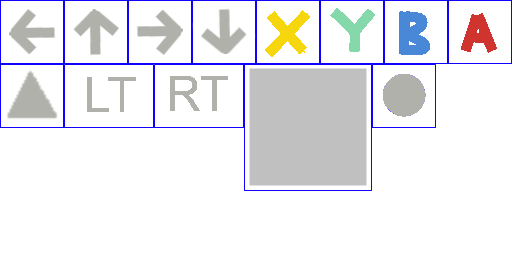
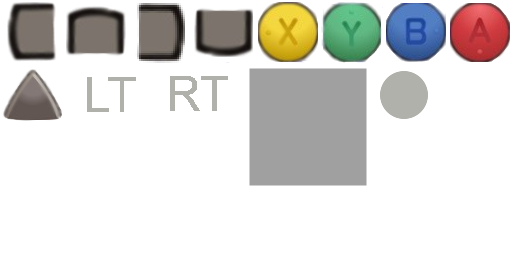
Updated buttons img, reset OSD scale

diff --git a/core/rend/gles/gles.cpp b/core/rend/gles/gles.cpp
@@ -958,6 +958,23 @@ void OSD_DRAW()
 		glBindTexture(GL_TEXTURE_2D,osd_tex);
 		glUseProgram(gl.OSD_SHADER.program);
 
+		//reset rendering scale
+
+		float dc_width=640;
+		float dc_height=480;
+
+		float dc2s_scale_h=screen_height/480.0f;
+		float ds2s_offs_x=(screen_width-dc2s_scale_h*640)/2;
+
+		//-1 -> too much to left
+		ShaderUniforms.scale_coefs[0]=2.0f/(screen_width/dc2s_scale_h);
+		ShaderUniforms.scale_coefs[1]=-2/dc_height;
+		ShaderUniforms.scale_coefs[2]=1-2*ds2s_offs_x/(screen_width);
+		ShaderUniforms.scale_coefs[3]=-1;
+		
+		glUniform4fv( gl.OSD_SHADER.scale, 1, ShaderUniforms.scale_coefs);
+
+
 		glEnable(GL_BLEND);
 		glDisable(GL_DEPTH_TEST);
 		glBlendFunc(GL_SRC_ALPHA, GL_ONE_MINUS_SRC_ALPHA);
